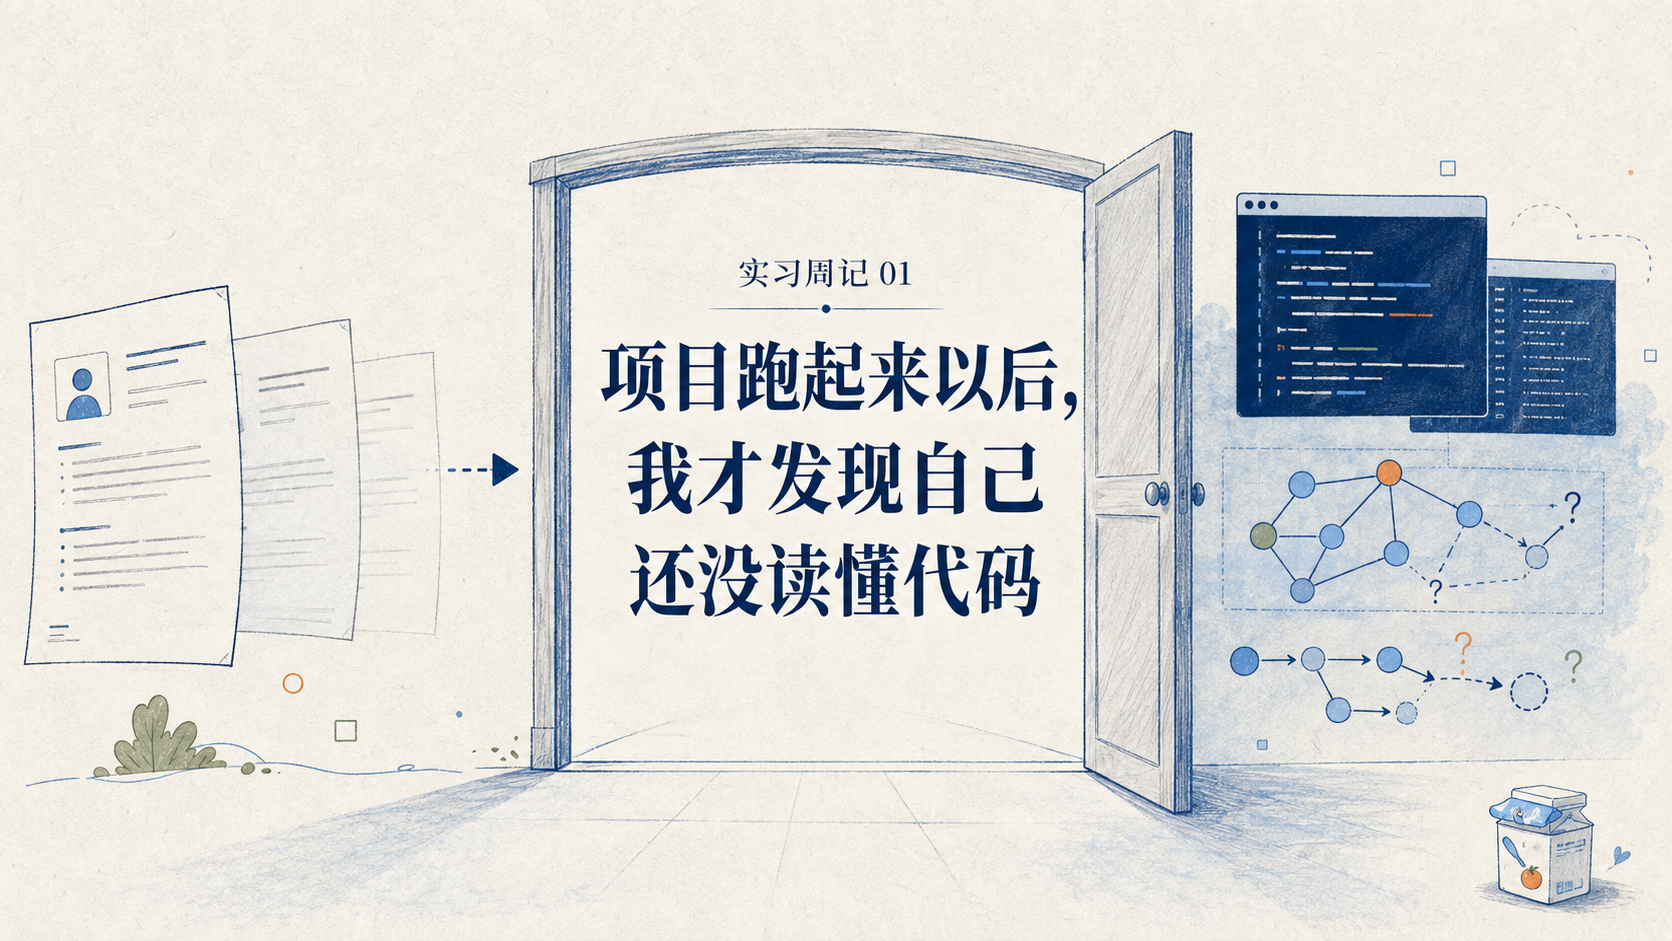
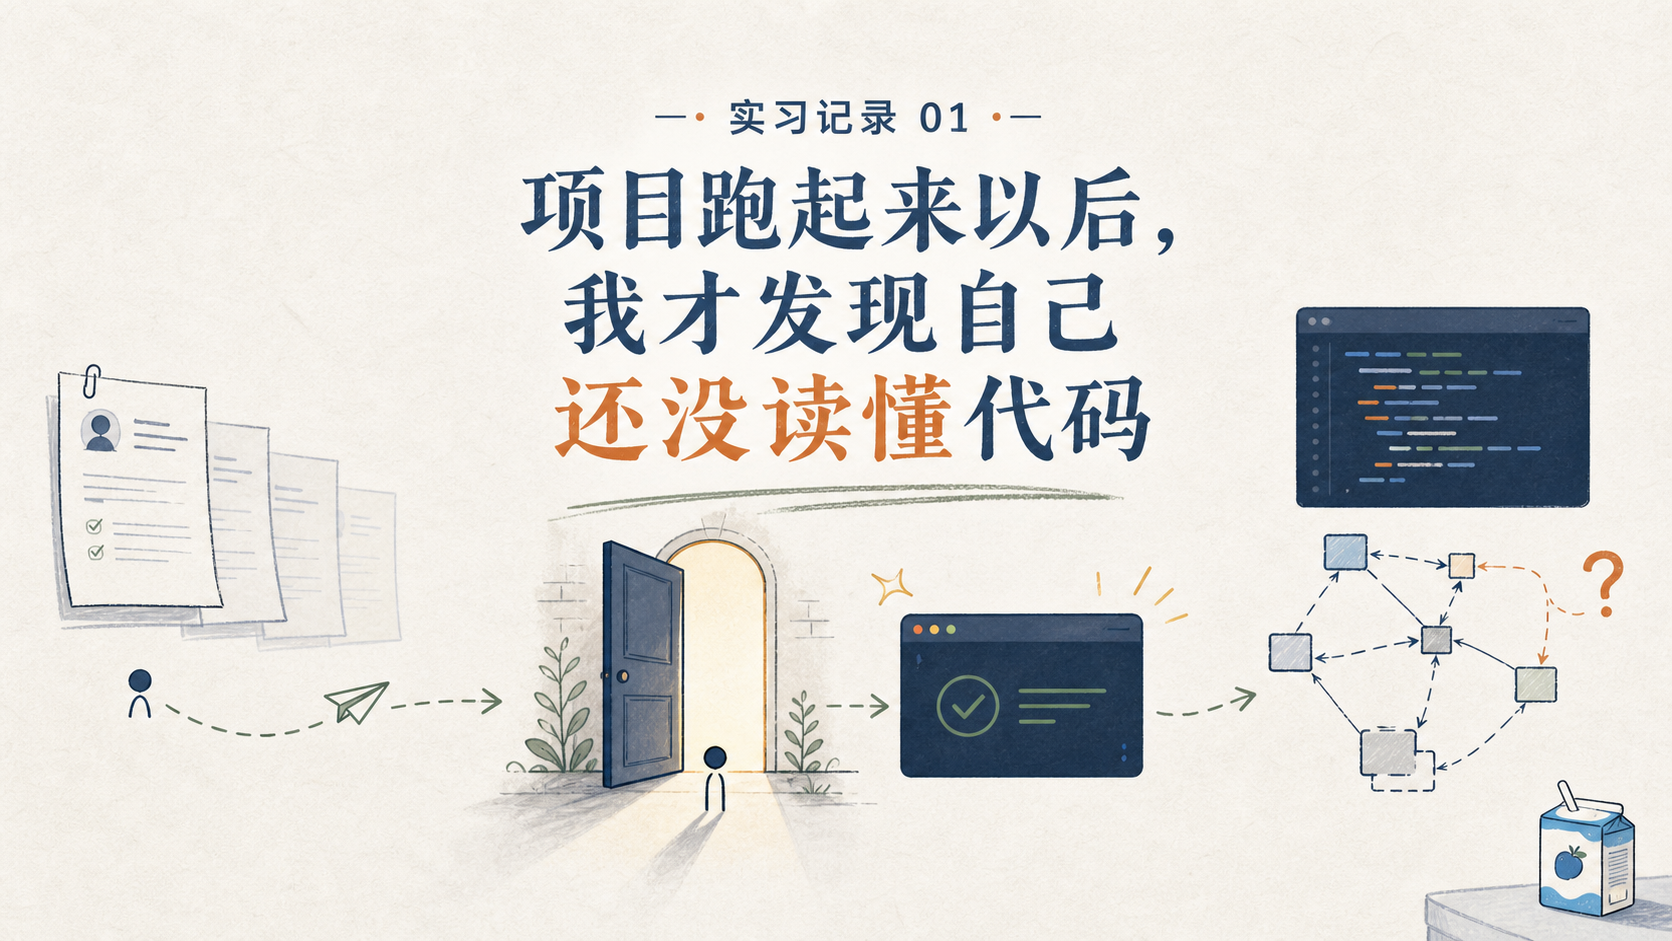
Site updated: 2026-08-01 17:20:17

diff --git a/2026/08/01/internship-weekly-01-read-code-after-project-runs/index.html b/2026/08/01/internship-weekly-01-read-code-after-project-runs/index.html
@@ -25,7 +25,7 @@
 
     <meta name="description" content="实习第一周的工程环境、代码阅读、AI 辅助与能力边界复盘。">
 <meta property="og:type" content="article">
-<meta property="og:title" content="实习周记 01：项目跑起来以后，我才发现自己还没读懂代码">
+<meta property="og:title" content="实习记录 01：项目跑起来以后，我才发现自己还没读懂代码">
 <meta property="og:url" content="https://viewu.github.io/2026/08/01/internship-weekly-01-read-code-after-project-runs/index.html">
 <meta property="og:site_name" content="vieWu&#39;s world">
 <meta property="og:description" content="实习第一周的工程环境、代码阅读、AI 辅助与能力边界复盘。">
@@ -36,11 +36,11 @@
 <meta property="og:image" content="https://viewu.github.io/images/internship-weekly-01-read-code-after-project-runs/5.png">
 <meta property="og:image" content="https://viewu.github.io/images/internship-weekly-01-read-code-after-project-runs/6.png">
 <meta property="article:published_time" content="2026-08-01T09:01:53.000Z">
-<meta property="article:modified_time" content="2026-08-01T09:12:01.062Z">
+<meta property="article:modified_time" content="2026-08-01T09:16:32.179Z">
 <meta property="article:author" content="viewu">
 <meta property="article:tag" content="AI Coding">
-<meta property="article:tag" content="实习周记">
 <meta property="article:tag" content="工程实践">
+<meta property="article:tag" content="实习记录">
 <meta name="twitter:card" content="summary">
 <meta name="twitter:image" content="https://viewu.github.io/images/internship-weekly-01-read-code-after-project-runs/2.png">
 
@@ -49,10 +49,10 @@
 
 
 
-<script class="next-config" data-name="page" type="application/json">{"sidebar":"","isHome":false,"isPost":true,"lang":"zh-CN","comments":true,"permalink":"https://viewu.github.io/2026/08/01/internship-weekly-01-read-code-after-project-runs/","path":"2026/08/01/internship-weekly-01-read-code-after-project-runs/","title":"实习周记 01：项目跑起来以后，我才发现自己还没读懂代码"}</script>
+<script class="next-config" data-name="page" type="application/json">{"sidebar":"","isHome":false,"isPost":true,"lang":"zh-CN","comments":true,"permalink":"https://viewu.github.io/2026/08/01/internship-weekly-01-read-code-after-project-runs/","path":"2026/08/01/internship-weekly-01-read-code-after-project-runs/","title":"实习记录 01：项目跑起来以后，我才发现自己还没读懂代码"}</script>
 
 <script class="next-config" data-name="calendar" type="application/json">""</script>
-<title>实习周记 01：项目跑起来以后，我才发现自己还没读懂代码 | vieWu's world</title>
+<title>实习记录 01：项目跑起来以后，我才发现自己还没读懂代码 | vieWu's world</title>
   
 
 
@@ -148,7 +148,7 @@
       <div class="sidebar-panel-container">
         <!--noindex-->
         <div class="post-toc-wrap sidebar-panel">
-            <div class="post-toc animated"><ol class="nav"><li class="nav-item nav-level-1"><a class="nav-link" href="#%E5%AE%9E%E4%B9%A0%E5%91%A8%E8%AE%B0-01%EF%BC%9A%E9%A1%B9%E7%9B%AE%E8%B7%91%E8%B5%B7%E6%9D%A5%E4%BB%A5%E5%90%8E%EF%BC%8C%E6%88%91%E6%89%8D%E5%8F%91%E7%8E%B0%E8%87%AA%E5%B7%B1%E8%BF%98%E6%B2%A1%E8%AF%BB%E6%87%82%E4%BB%A3%E7%A0%81"><span class="nav-number">1.</span> <span class="nav-text">实习周记 01：项目跑起来以后，我才发现自己还没读懂代码</span></a><ol class="nav-child"><li class="nav-item nav-level-2"><a class="nav-link" href="#%E6%88%91%E5%85%88%E5%AD%A6%E4%BC%9A%E4%BA%86%E5%88%A4%E6%96%AD%E9%97%AE%E9%A2%98%E5%8D%A1%E5%9C%A8%E5%93%AA%E4%B8%80%E5%B1%82"><span class="nav-number">1.1.</span> <span class="nav-text">我先学会了判断问题卡在哪一层</span></a></li><li class="nav-item nav-level-2"><a class="nav-link" href="#Claude-Code-%E5%B8%A6%E6%88%91%E8%B5%B0%E4%BA%86%E4%B8%80%E9%81%8D%EF%BC%8C%E6%88%91%E8%BF%98%E4%B8%8D%E8%83%BD%E7%8B%AC%E7%AB%8B%E8%B5%B0%E4%B8%80%E9%81%8D"><span class="nav-number">1.2.</span> <span class="nav-text">Claude Code 带我走了一遍，我还不能独立走一遍</span></a></li><li class="nav-item nav-level-2"><a class="nav-link" href="#SSE-%E5%92%8C-LangGraph-%E8%AE%A9%E6%88%91%E8%A1%A5%E4%B8%8A%E4%BA%86%E4%B8%A4%E5%9D%97%E6%B5%85%E5%B1%82%E8%AE%A4%E7%9F%A5"><span class="nav-number">1.3.</span> <span class="nav-text">SSE 和 LangGraph 让我补上了两块浅层认知</span></a></li><li class="nav-item nav-level-2"><a class="nav-link" href="#%E4%B8%80%E6%AC%A1%E6%B2%A1%E6%9C%89%E6%95%88%E6%9E%9C%E7%9A%84%E4%BF%AE%E6%94%B9%EF%BC%8C%E6%8A%8A%E7%90%86%E8%A7%A3%E7%BC%BA%E5%8F%A3%E6%9A%B4%E9%9C%B2%E4%BA%86%E5%87%BA%E6%9D%A5"><span class="nav-number">1.4.</span> <span class="nav-text">一次没有效果的修改，把理解缺口暴露了出来</span></a></li><li class="nav-item nav-level-2"><a class="nav-link" href="#%E7%AC%AC%E4%B8%80%E5%91%A8%E7%9A%84%E8%BF%9B%E5%BA%A6%EF%BC%8C%E5%BA%94%E8%AF%A5%E5%86%99%E5%BE%97%E8%AF%9A%E5%AE%9E%E4%B8%80%E7%82%B9"><span class="nav-number">1.5.</span> <span class="nav-text">第一周的进度，应该写得诚实一点</span></a></li></ol></li></ol></div>
+            <div class="post-toc animated"><ol class="nav"><li class="nav-item nav-level-1"><a class="nav-link" href="#%E5%AE%9E%E4%B9%A0%E8%AE%B0%E5%BD%95-01%EF%BC%9A%E9%A1%B9%E7%9B%AE%E8%B7%91%E8%B5%B7%E6%9D%A5%E4%BB%A5%E5%90%8E%EF%BC%8C%E6%88%91%E6%89%8D%E5%8F%91%E7%8E%B0%E8%87%AA%E5%B7%B1%E8%BF%98%E6%B2%A1%E8%AF%BB%E6%87%82%E4%BB%A3%E7%A0%81"><span class="nav-number">1.</span> <span class="nav-text">实习记录 01：项目跑起来以后，我才发现自己还没读懂代码</span></a><ol class="nav-child"><li class="nav-item nav-level-2"><a class="nav-link" href="#%E6%88%91%E5%85%88%E5%AD%A6%E4%BC%9A%E4%BA%86%E5%88%A4%E6%96%AD%E9%97%AE%E9%A2%98%E5%8D%A1%E5%9C%A8%E5%93%AA%E4%B8%80%E5%B1%82"><span class="nav-number">1.1.</span> <span class="nav-text">我先学会了判断问题卡在哪一层</span></a></li><li class="nav-item nav-level-2"><a class="nav-link" href="#Claude-Code-%E5%B8%A6%E6%88%91%E8%B5%B0%E4%BA%86%E4%B8%80%E9%81%8D%EF%BC%8C%E6%88%91%E8%BF%98%E4%B8%8D%E8%83%BD%E7%8B%AC%E7%AB%8B%E8%B5%B0%E4%B8%80%E9%81%8D"><span class="nav-number">1.2.</span> <span class="nav-text">Claude Code 带我走了一遍，我还不能独立走一遍</span></a></li><li class="nav-item nav-level-2"><a class="nav-link" href="#SSE-%E5%92%8C-LangGraph-%E8%AE%A9%E6%88%91%E8%A1%A5%E4%B8%8A%E4%BA%86%E4%B8%A4%E5%9D%97%E6%B5%85%E5%B1%82%E8%AE%A4%E7%9F%A5"><span class="nav-number">1.3.</span> <span class="nav-text">SSE 和 LangGraph 让我补上了两块浅层认知</span></a></li><li class="nav-item nav-level-2"><a class="nav-link" href="#%E4%B8%80%E6%AC%A1%E6%B2%A1%E6%9C%89%E6%95%88%E6%9E%9C%E7%9A%84%E4%BF%AE%E6%94%B9%EF%BC%8C%E6%8A%8A%E7%90%86%E8%A7%A3%E7%BC%BA%E5%8F%A3%E6%9A%B4%E9%9C%B2%E4%BA%86%E5%87%BA%E6%9D%A5"><span class="nav-number">1.4.</span> <span class="nav-text">一次没有效果的修改，把理解缺口暴露了出来</span></a></li><li class="nav-item nav-level-2"><a class="nav-link" href="#%E7%AC%AC%E4%B8%80%E5%91%A8%E7%9A%84%E8%BF%9B%E5%BA%A6%EF%BC%8C%E5%BA%94%E8%AF%A5%E5%86%99%E5%BE%97%E8%AF%9A%E5%AE%9E%E4%B8%80%E7%82%B9"><span class="nav-number">1.5.</span> <span class="nav-text">第一周的进度，应该写得诚实一点</span></a></li></ol></li></ol></div>
         </div>
         <!--/noindex-->
 
@@ -172,7 +172,7 @@
         <span class="site-state-item-name">分类</span>
       </div>
       <div class="site-state-item site-state-tags">
-        <span class="site-state-item-count">15</span>
+        <span class="site-state-item-count">16</span>
         <span class="site-state-item-name">标签</span>
       </div>
   </nav>
@@ -224,12 +224,12 @@
     </span>
 
     <span hidden itemprop="post" itemscope itemtype="http://schema.org/CreativeWork">
-      <meta itemprop="name" content="实习周记 01：项目跑起来以后，我才发现自己还没读懂代码 | vieWu's world">
+      <meta itemprop="name" content="实习记录 01：项目跑起来以后，我才发现自己还没读懂代码 | vieWu's world">
       <meta itemprop="description" content="实习第一周的工程环境、代码阅读、AI 辅助与能力边界复盘。">
     </span>
       <header class="post-header">
         <h1 class="post-title" itemprop="name headline">
-          实习周记 01：项目跑起来以后，我才发现自己还没读懂代码
+          实习记录 01：项目跑起来以后，我才发现自己还没读懂代码
         </h1>
 
         <div class="post-meta-container">
@@ -241,7 +241,7 @@
       <span class="post-meta-item-text">发表于</span>
       
 
-      <time title="创建时间：2026-08-01 17:01:53 / 修改时间：17:12:01" itemprop="dateCreated datePublished" datetime="2026-08-01T17:01:53+08:00">2026-08-01</time>
+      <time title="创建时间：2026-08-01 17:01:53 / 修改时间：17:16:32" itemprop="dateCreated datePublished" datetime="2026-08-01T17:01:53+08:00">2026-08-01</time>
     </span>
     <span class="post-meta-item">
       <span class="post-meta-item-icon">
@@ -278,7 +278,7 @@
     
     
     
-    <div class="post-body" itemprop="articleBody"><h1 id="实习周记-01：项目跑起来以后，我才发现自己还没读懂代码"><a href="#实习周记-01：项目跑起来以后，我才发现自己还没读懂代码" class="headerlink" title="实习周记 01：项目跑起来以后，我才发现自己还没读懂代码"></a>实习周记 01：项目跑起来以后，我才发现自己还没读懂代码</h1><p>这份实习是在暑假开始以后才找到的。</p>
+    <div class="post-body" itemprop="articleBody"><h1 id="实习记录-01：项目跑起来以后，我才发现自己还没读懂代码"><a href="#实习记录-01：项目跑起来以后，我才发现自己还没读懂代码" class="headerlink" title="实习记录 01：项目跑起来以后，我才发现自己还没读懂代码"></a>实习记录 01：项目跑起来以后，我才发现自己还没读懂代码</h1><p>这份实习是在暑假开始以后才找到的。</p>
 <p>暑假前，我急急忙忙投了很多简历，最后大多石沉大海。那段时间越投越着急，总觉得应该尽快抓住一个机会。后来我稍微佛系了一点，想着一边继续投简历，一边补自己的能力，反倒在这个时候收到了实习机会。</p>
 <p>所以刚入职时，我除了紧张，也有一种终于落地的满足感。和我一起入职的还有另外三位小伙伴，其中一位后来还给我们投喂了酸奶。第一周虽然大部分时间都在配置环境、读项目和处理问题，身边这些很小的善意，也让我慢慢放松下来。</p>
 <img src="/images/internship-weekly-01-read-code-after-project-runs/2.png" width="70%" alt="投递简历到入职第一周的时间线" />
@@ -337,8 +337,8 @@
     <footer class="post-footer">
           <div class="post-tags">
               <a href="/tags/AI-Coding/" rel="tag"># AI Coding</a>
-              <a href="/tags/%E5%AE%9E%E4%B9%A0%E5%91%A8%E8%AE%B0/" rel="tag"># 实习周记</a>
               <a href="/tags/%E5%B7%A5%E7%A8%8B%E5%AE%9E%E8%B7%B5/" rel="tag"># 工程实践</a>
+              <a href="/tags/%E5%AE%9E%E4%B9%A0%E8%AE%B0%E5%BD%95/" rel="tag"># 实习记录</a>
           </div>
 
         

diff --git a/tags/实习记录/index.html b/tags/实习记录/index.html
@@ -26,7 +26,7 @@
     <meta name="description" content="这里记录一个非技术用户如何使用 AI 工具、建立个人工作系统，并在学习、写作与生活中不断校准自己。">
 <meta property="og:type" content="website">
 <meta property="og:title" content="vieWu&#39;s world">
-<meta property="og:url" content="https://viewu.github.io/tags/%E5%AE%9E%E4%B9%A0%E5%91%A8%E8%AE%B0/index.html">
+<meta property="og:url" content="https://viewu.github.io/tags/%E5%AE%9E%E4%B9%A0%E8%AE%B0%E5%BD%95/index.html">
 <meta property="og:site_name" content="vieWu&#39;s world">
 <meta property="og:description" content="这里记录一个非技术用户如何使用 AI 工具、建立个人工作系统，并在学习、写作与生活中不断校准自己。">
 <meta property="og:locale" content="zh_CN">
@@ -35,14 +35,14 @@
 <meta name="twitter:card" content="summary">
 
 
-<link rel="canonical" href="https://viewu.github.io/tags/%E5%AE%9E%E4%B9%A0%E5%91%A8%E8%AE%B0/">
+<link rel="canonical" href="https://viewu.github.io/tags/%E5%AE%9E%E4%B9%A0%E8%AE%B0%E5%BD%95/">
 
 
 
-<script class="next-config" data-name="page" type="application/json">{"sidebar":"","isHome":false,"isPost":false,"lang":"zh-CN","comments":"","permalink":"","path":"tags/实习周记/index.html","title":""}</script>
+<script class="next-config" data-name="page" type="application/json">{"sidebar":"","isHome":false,"isPost":false,"lang":"zh-CN","comments":"","permalink":"","path":"tags/实习记录/index.html","title":""}</script>
 
 <script class="next-config" data-name="calendar" type="application/json">""</script>
-<title>标签: 实习周记 | vieWu's world</title>
+<title>标签: 实习记录 | vieWu's world</title>
   
 
 
@@ -161,7 +161,7 @@
         <span class="site-state-item-name">分类</span>
       </div>
       <div class="site-state-item site-state-tags">
-        <span class="site-state-item-count">15</span>
+        <span class="site-state-item-count">16</span>
         <span class="site-state-item-name">标签</span>
       </div>
   </nav>
@@ -198,7 +198,7 @@
   <div class="post-block">
     <div class="post-content">
       <div class="collection-title">
-        <h1 class="collection-header">实习周记
+        <h1 class="collection-header">实习记录
           <small>标签</small>
         </h1>
       </div>
@@ -220,7 +220,7 @@
 
       <div class="post-title">
           <a class="post-title-link" href="/2026/08/01/internship-weekly-01-read-code-after-project-runs/" itemprop="url">
-            <span itemprop="name">实习周记 01：项目跑起来以后，我才发现自己还没读懂代码</span>
+            <span itemprop="name">实习记录 01：项目跑起来以后，我才发现自己还没读懂代码</span>
           </a>
       </div>
 

diff --git a/index.html b/index.html
@@ -161,7 +161,7 @@
         <span class="site-state-item-name">分类</span>
       </div>
       <div class="site-state-item site-state-tags">
-        <span class="site-state-item-count">15</span>
+        <span class="site-state-item-count">16</span>
         <span class="site-state-item-name">标签</span>
       </div>
   </nav>
@@ -295,7 +295,7 @@
     </span>
       <header class="post-header">
         <h2 class="post-title" itemprop="name headline">
-          <a href="/2026/08/01/internship-weekly-01-read-code-after-project-runs/" class="post-title-link" itemprop="url">实习周记 01：项目跑起来以后，我才发现自己还没读懂代码</a>
+          <a href="/2026/08/01/internship-weekly-01-read-code-after-project-runs/" class="post-title-link" itemprop="url">实习记录 01：项目跑起来以后，我才发现自己还没读懂代码</a>
         </h2>
 
         <div class="post-meta-container">
@@ -307,7 +307,7 @@
       <span class="post-meta-item-text">发表于</span>
       
 
-      <time title="创建时间：2026-08-01 17:01:53 / 修改时间：17:12:01" itemprop="dateCreated datePublished" datetime="2026-08-01T17:01:53+08:00">2026-08-01</time>
+      <time title="创建时间：2026-08-01 17:01:53 / 修改时间：17:16:32" itemprop="dateCreated datePublished" datetime="2026-08-01T17:01:53+08:00">2026-08-01</time>
     </span>
     <span class="post-meta-item">
       <span class="post-meta-item-icon">

diff --git a/2026/07/26/learning-unit-from-course-to-question/index.html b/2026/07/26/learning-unit-from-course-to-question/index.html
@@ -172,7 +172,7 @@
         <span class="site-state-item-name">分类</span>
       </div>
       <div class="site-state-item site-state-tags">
-        <span class="site-state-item-count">15</span>
+        <span class="site-state-item-count">16</span>
         <span class="site-state-item-name">标签</span>
       </div>
   </nav>
@@ -371,8 +371,8 @@
                 </a>
             </div>
             <div class="post-nav-item">
-                <a href="/2026/08/01/internship-weekly-01-read-code-after-project-runs/" rel="next" title="实习周记 01：项目跑起来以后，我才发现自己还没读懂代码">
-                  实习周记 01：项目跑起来以后，我才发现自己还没读懂代码 <i class="fa fa-angle-right"></i>
+                <a href="/2026/08/01/internship-weekly-01-read-code-after-project-runs/" rel="next" title="实习记录 01：项目跑起来以后，我才发现自己还没读懂代码">
+                  实习记录 01：项目跑起来以后，我才发现自己还没读懂代码 <i class="fa fa-angle-right"></i>
                 </a>
             </div>
           </div>

diff --git a/archives/2026/08/index.html b/archives/2026/08/index.html
@@ -161,7 +161,7 @@
         <span class="site-state-item-name">分类</span>
       </div>
       <div class="site-state-item site-state-tags">
-        <span class="site-state-item-count">15</span>
+        <span class="site-state-item-count">16</span>
         <span class="site-state-item-name">标签</span>
       </div>
   </nav>
@@ -218,7 +218,7 @@
 
       <div class="post-title">
           <a class="post-title-link" href="/2026/08/01/internship-weekly-01-read-code-after-project-runs/" itemprop="url">
-            <span itemprop="name">实习周记 01：项目跑起来以后，我才发现自己还没读懂代码</span>
+            <span itemprop="name">实习记录 01：项目跑起来以后，我才发现自己还没读懂代码</span>
           </a>
       </div>
 

diff --git a/archives/2026/index.html b/archives/2026/index.html
@@ -161,7 +161,7 @@
         <span class="site-state-item-name">分类</span>
       </div>
       <div class="site-state-item site-state-tags">
-        <span class="site-state-item-count">15</span>
+        <span class="site-state-item-count">16</span>
         <span class="site-state-item-name">标签</span>
       </div>
   </nav>
@@ -218,7 +218,7 @@
 
       <div class="post-title">
           <a class="post-title-link" href="/2026/08/01/internship-weekly-01-read-code-after-project-runs/" itemprop="url">
-            <span itemprop="name">实习周记 01：项目跑起来以后，我才发现自己还没读懂代码</span>
+            <span itemprop="name">实习记录 01：项目跑起来以后，我才发现自己还没读懂代码</span>
           </a>
       </div>
 

diff --git a/archives/index.html b/archives/index.html
@@ -161,7 +161,7 @@
         <span class="site-state-item-name">分类</span>
       </div>
       <div class="site-state-item site-state-tags">
-        <span class="site-state-item-count">15</span>
+        <span class="site-state-item-count">16</span>
         <span class="site-state-item-name">标签</span>
       </div>
   </nav>
@@ -218,7 +218,7 @@
 
       <div class="post-title">
           <a class="post-title-link" href="/2026/08/01/internship-weekly-01-read-code-after-project-runs/" itemprop="url">
-            <span itemprop="name">实习周记 01：项目跑起来以后，我才发现自己还没读懂代码</span>
+            <span itemprop="name">实习记录 01：项目跑起来以后，我才发现自己还没读懂代码</span>
           </a>
       </div>
 

diff --git a/categories/工作/index.html b/categories/工作/index.html
@@ -161,7 +161,7 @@
         <span class="site-state-item-name">分类</span>
       </div>
       <div class="site-state-item site-state-tags">
-        <span class="site-state-item-count">15</span>
+        <span class="site-state-item-count">16</span>
         <span class="site-state-item-name">标签</span>
       </div>
   </nav>
@@ -220,7 +220,7 @@
 
       <div class="post-title">
           <a class="post-title-link" href="/2026/08/01/internship-weekly-01-read-code-after-project-runs/" itemprop="url">
-            <span itemprop="name">实习周记 01：项目跑起来以后，我才发现自己还没读懂代码</span>
+            <span itemprop="name">实习记录 01：项目跑起来以后，我才发现自己还没读懂代码</span>
           </a>
       </div>
 

diff --git a/tags/AI-Coding/index.html b/tags/AI-Coding/index.html
@@ -161,7 +161,7 @@
         <span class="site-state-item-name">分类</span>
       </div>
       <div class="site-state-item site-state-tags">
-        <span class="site-state-item-count">15</span>
+        <span class="site-state-item-count">16</span>
         <span class="site-state-item-name">标签</span>
       </div>
   </nav>
@@ -220,7 +220,7 @@
 
       <div class="post-title">
           <a class="post-title-link" href="/2026/08/01/internship-weekly-01-read-code-after-project-runs/" itemprop="url">
-            <span itemprop="name">实习周记 01：项目跑起来以后，我才发现自己还没读懂代码</span>
+            <span itemprop="name">实习记录 01：项目跑起来以后，我才发现自己还没读懂代码</span>
           </a>
       </div>
 

diff --git a/tags/工程实践/index.html b/tags/工程实践/index.html
@@ -161,7 +161,7 @@
         <span class="site-state-item-name">分类</span>
       </div>
       <div class="site-state-item site-state-tags">
-        <span class="site-state-item-count">15</span>
+        <span class="site-state-item-count">16</span>
         <span class="site-state-item-name">标签</span>
       </div>
   </nav>
@@ -220,7 +220,7 @@
 
       <div class="post-title">
           <a class="post-title-link" href="/2026/08/01/internship-weekly-01-read-code-after-project-runs/" itemprop="url">
-            <span itemprop="name">实习周记 01：项目跑起来以后，我才发现自己还没读懂代码</span>
+            <span itemprop="name">实习记录 01：项目跑起来以后，我才发现自己还没读懂代码</span>
           </a>
       </div>
 

diff --git a/2024/04/03/最后的终点/index.html b/2024/04/03/最后的终点/index.html
@@ -164,7 +164,7 @@
         <span class="site-state-item-name">分类</span>
       </div>
       <div class="site-state-item site-state-tags">
-        <span class="site-state-item-count">15</span>
+        <span class="site-state-item-count">16</span>
         <span class="site-state-item-name">标签</span>
       </div>
   </nav>

diff --git a/2026/03/30/Wins-Taught-Me/index.html b/2026/03/30/Wins-Taught-Me/index.html
@@ -167,7 +167,7 @@
         <span class="site-state-item-name">分类</span>
       </div>
       <div class="site-state-item site-state-tags">
-        <span class="site-state-item-count">15</span>
+        <span class="site-state-item-count">16</span>
         <span class="site-state-item-name">标签</span>
       </div>
   </nav>
